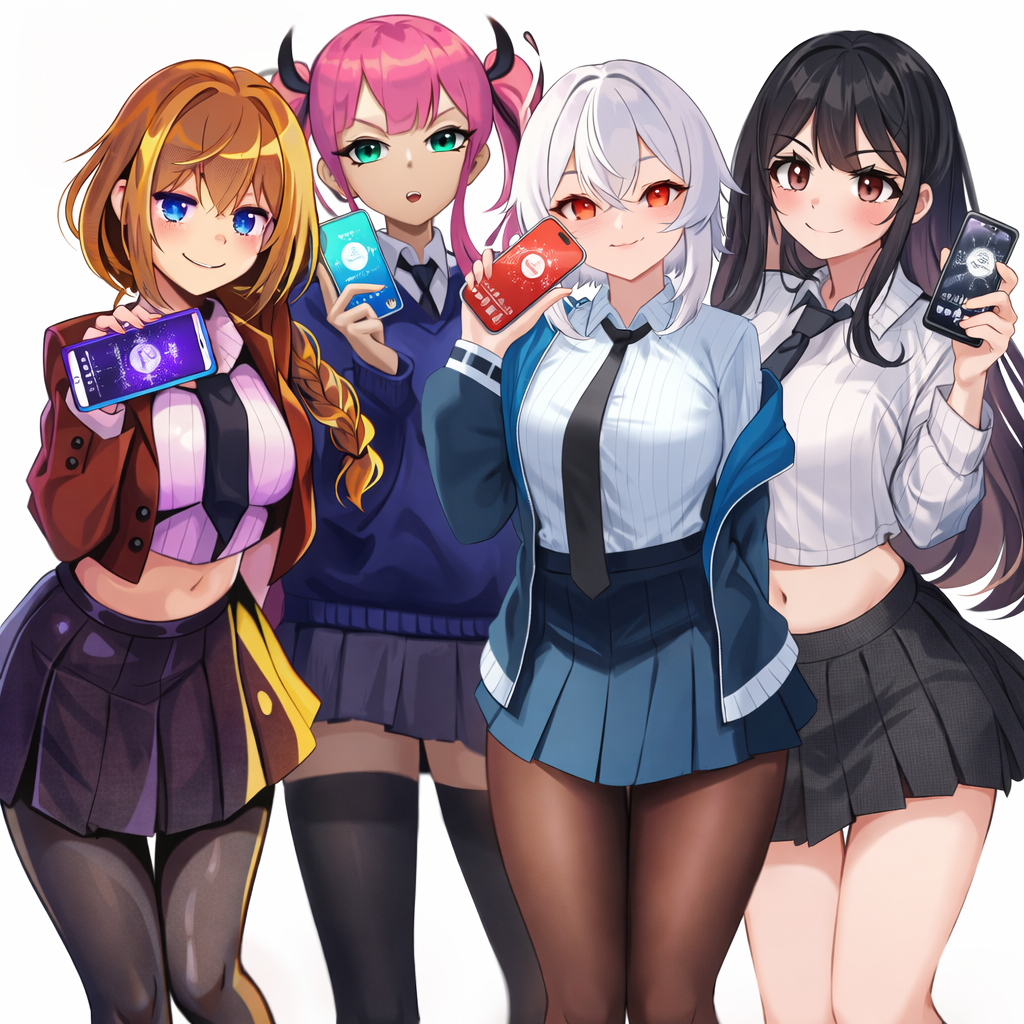
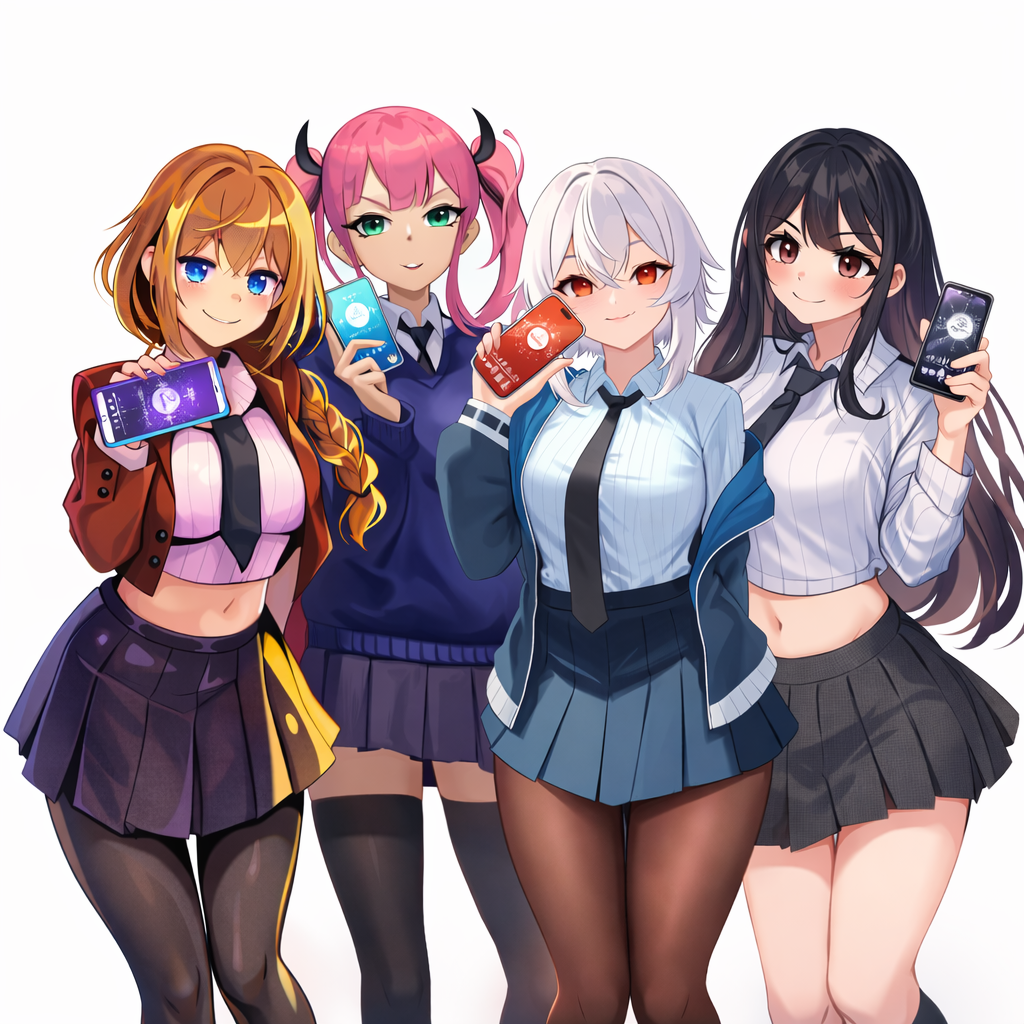
.

diff --git a/index.html b/index.html
@@ -19,7 +19,7 @@
     <meta name="twitter:title" content="Shinobu Uzuki | $SHINOBU" />
     <meta name="twitter:description" content='In a world where digital anime art and meme culture collide, "Shinobu Uzuki" emerges as a playful and provocative exploration of fandom, creativity, and self-expression. The project takes inspiration from the vibrant community of anime enthusiasts who celebrate the beauty and artistry of their favorite characters.' />
     <meta name="twitter:image" content="/meta-images/telegram-banner.png" />
-
+    <meta name="viewport" content="width=device-width, initial-scale=1.0">
     <!-- ▼ CSS Load ▼-->
     <link
       href="/wp-content/themes/hoshi_official/css/reset.css"
@@ -267,6 +267,7 @@
         <h1 class="logo">
           <picture>
             <img
+              class="img1"
               src="/Untitled-1.png"
               alt="hoshi official website USAGIGO.com"
             />
@@ -280,75 +281,28 @@
             /> -->
           </div>
           <div class="kv_main">
-            <div class="bg_ui">
+            <div class="chara logo">
+              <img src="/wp-content/themes/hoshi_official/images/kv/logo.png" />
             </div>
-            <div class="bg_items">
-              <!-- <img
-                src="/wp-content/themes/hoshi_official/images/kv/kv_bg_items.webp"
-                alt=""
-              /> -->
+          
+            <div class="chara chara1">
+              <img src="/wp-content/themes/hoshi_official/images/kv/kv_chara.png" />
             </div>
-            <div class="chara">
-              <img src="/wp-content/themes/hoshi_official/images/kv/logo.png"
-              style="margin-left: 20vw;
-              margin-top: 7vh;
-              width: 28vw;
-              height: 60vh;
-              object-fit: cover;" />
+          
+            <div class="chara chara2">
+              <img src="/wp-content/themes/hoshi_official/images/kv/4.webp" />
             </div>
-            <div class="chara">
-              <img src="/wp-content/themes/hoshi_official/images/kv/kv_chara.png"
-              style="    margin-left: 43vw;
-              margin-top: 32vh;
-              width: 18vw;
-              height: 56vh;
-              object-fit: cover;
-              border-radius: 10%;
-              border: 4px solid #ffe600;
-              transform: rotate(15deg)" />
+          
+            <div class="chara chara3">
+              <img src="/wp-content/themes/hoshi_official/images/kv/1.jpg" />
             </div>
-            <div class="chara">
-              <img src="/wp-content/themes/hoshi_official/images/kv/4.webp"
-              style="margin-left: -14vw;
-              margin-top: 14vh;
-              width: 18vw;
-              height: 60vh;
-              object-fit: cover;
-              border-radius: 10%;
-              border: 4px solid #ffe600;
-              transform: rotate(15deg);" />
+          
+            <div class="chara chara4">
+              <img src="/wp-content/themes/hoshi_official/images/kv/2.webp" />
             </div>
-            <div class="chara">
-              <img src="/wp-content/themes/hoshi_official/images/kv/1.jpg"
-              style="margin-left: 6vw;
-              margin-top: 35vh;
-              width: 20vw;
-              height: 63vh;
-              object-fit: cover;
-              border-radius: 10%;
-              border: 4px solid #ffe600;
-              transform: rotate(-15deg)" />
-            </div>
-            <div class="chara">
-              <img src="/wp-content/themes/hoshi_official/images/kv/2.webp"
-              style="margin-left: 62vw;
-              margin-top: 15vh;
-              width: 18vw;
-              height: 52vh;
-              object-fit: cover;
-              border-radius: 10%;
-              border: 4px solid #ffe600;
-              transform: rotate(-15deg)" />
-            </div>
-            <div class="chara">
-              <img src="/wp-content/themes/hoshi_official/images/kv/5.webp"
-              style="margin-left: 25vw;
-              margin-top: 46vh;
-              width: 20vw;
-              height: 73vh;
-              object-fit: cover;
-              border-radius: 10%;
-              border: 4px solid #ffe600;" />
+          
+            <div class="chara chara5">
+              <img src="/wp-content/themes/hoshi_official/images/kv/5.webp" />
             </div>
           </div>
         </div>

diff --git a/wp-content/themes/hoshi_official/css/common.min.css b/wp-content/themes/hoshi_official/css/common.min.css
@@ -46,7 +46,7 @@ a {
 img {
   height: auto;
 }
-@media only screen and (max-width: 835px) {
+/* @media only screen and (max-width: 835px) {
   body {
     overflow: hidden;
     min-height: 100%;
@@ -56,22 +56,122 @@ img {
     overflow-x: hidden;
     pointer-events: auto;
   }
-}
+} */
 .pc_only {
   display: block;
 }
 .sp_only {
   display: none !important;
 }
-@media only screen and (max-width: 835px) {
+/* @media only screen and (max-width: 835px) {
   .pc_only {
     display: none !important;
   }
   .sp_only {
     display: block !important;
   }
+} */
+.kv_main {
+  position: relative;
+  width: 100%;
+  height: 100vh;
 }
 
+.chara {
+  position: absolute;
+}
+@media (max-width: 520px) {
+  #fv .logo .img1 {
+    margin-top: 2vh !important;
+  }
+
+  .chara1 img {
+    margin-top: 21vh !important;
+  }
+
+  .chara3 img {
+    margin-top: 21vh !important;
+  }
+
+  .chara5 img {
+    margin-top: 25vh !important;
+  }
+}
+@media (max-width: 720px) {
+  video {
+    width: 720px;
+  }
+}
+@media (max-width: 520px) {
+  video {
+    width: 520px;
+  }
+}
+@media (max-width: 390px) {
+  video {
+    width: 390px;
+  }
+}
+
+
+
+.chara img {
+  height: auto;
+  object-fit: cover;
+  display: block;
+}
+
+/* logo */
+.logo img {
+  margin-left: 20vw;
+  margin-top: 7vh;
+  width: 28vw;
+}
+
+/* characters */
+.chara1 img {
+  margin-left: 43vw;
+  margin-top: 32vh;
+  width: 18vw;
+  border-radius: 10%;
+  border: 4px solid #ffe600;
+  transform: rotate(15deg);
+}
+
+.chara2 img {
+  margin-left: -14vw;
+  margin-top: 14vh;
+  width: 18vw;
+  border-radius: 10%;
+  border: 4px solid #ffe600;
+  transform: rotate(15deg);
+}
+
+.chara3 img {
+  margin-left: 6vw;
+  margin-top: 35vh;
+  width: 20vw;
+  border-radius: 10%;
+  border: 4px solid #ffe600;
+  transform: rotate(-15deg);
+}
+
+.chara4 img {
+  margin-left: 62vw;
+  margin-top: 15vh;
+  width: 18vw;
+  border-radius: 10%;
+  border: 4px solid #ffe600;
+  transform: rotate(-15deg);
+}
+
+.chara5 img {
+  margin-left: 25vw;
+  margin-top: 46vh;
+  width: 20vw;
+  border-radius: 10%;
+  border: 4px solid #ffe600;
+}
 #loading {
   position: fixed;
   top: 0;

diff --git a/wp-content/themes/hoshi_official/css/pages.min.css b/wp-content/themes/hoshi_official/css/pages.min.css
@@ -8,15 +8,10 @@
 #fv .logo {
   position: absolute;
   top: 39%;
-  left: 28%;
+  left: 18%;
   width: 48%;
   height: auto;
   z-index: 2;
-}
-#fv .logo img {
-  display: block;
-  width: 100%;
-  height: auto;
 }
 #fv .kv_layer {
   position: absolute;
@@ -110,11 +105,10 @@
 }
 #fv .kv_layer .kv_main .chara img {
   display: block;
-  width: 100%;
   height: auto;
   pointer-events: none;
 }
-@media only screen and (max-width: 835px) {
+/* @media only screen and (max-width: 835px) {
   #fv {
     padding-top: min(var(--vh_px), 178.9473684211%);
   }
@@ -142,7 +136,8 @@
     height: 90%;
     transform: translate(-43%, -47%);
   }
-}
+} */
+
 #works_pc {
   position: relative;
   display: block;
